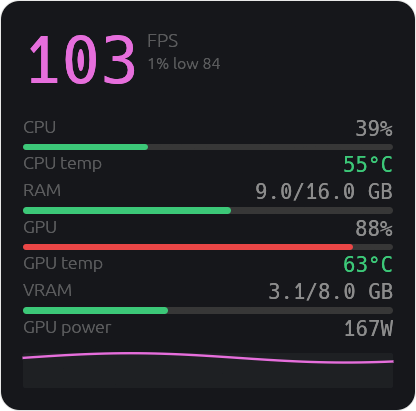
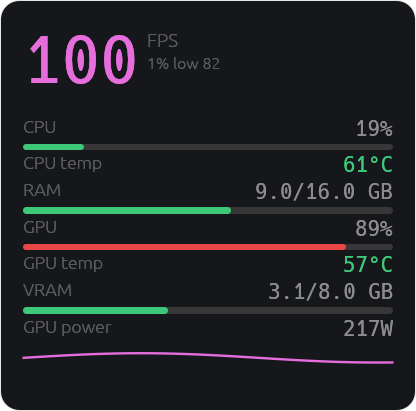
Tune the load and temperature thresholds
A normal ~60% load read amber; the bands are now green <70%, amber <85%,
red >=85% -- so a value that rounds to 90% already reads alarm and the number
never disagrees with its bar. Temperatures get their own bands (green <65C,
amber <80C, red above). Dropped the sparkline's stray background box.

diff --git a/src/gui/theme.rs b/src/gui/theme.rs
@@ -35,9 +35,12 @@ pub fn thermal(temp_c: f32) -> Rgb {
     lerp([80, 180, 255], [255, 90, 60], t)
 }
 
-/// The bar tone for a `0..=1` load: green, then amber, then red.
+/// The bar tone for a `0..=1` load: green, then amber past 70%, then red past
+/// 85%. The bands are deliberately wide, so a normal load stays calm and only a
+/// genuinely pegged one alarms — and a value that rounds to "90%" already reads
+/// alarm, so the number and the bar never disagree.
 pub fn load_color(fraction: f32) -> Rgb {
-    if fraction < 0.6 {
+    if fraction < 0.7 {
         [60, 200, 120]
     } else if fraction < 0.85 {
         [235, 175, 45]
@@ -46,10 +49,16 @@ pub fn load_color(fraction: f32) -> Rgb {
     }
 }
 
-/// A temperature tone: calm green when cool, amber when warm, red when hot, so
-/// a temperature reads at a glance like a load bar does.
+/// A temperature tone: green below 65 °C, amber to 80 °C, red above, so a
+/// temperature reads at a glance like a load bar does.
 pub fn temp_color(temp_c: f32) -> Rgb {
-    load_color(((temp_c - 40.0) / 50.0).clamp(0.0, 1.0))
+    if temp_c < 65.0 {
+        [60, 200, 120]
+    } else if temp_c < 80.0 {
+        [235, 175, 45]
+    } else {
+        [235, 70, 70]
+    }
 }
 
 /// The accent to draw with: thermal follows the temperature, the rest are
@@ -80,6 +89,10 @@ mod tests {
     fn is_bluish(c: Rgb) -> bool {
         c[2] > c[0]
     }
+    /// A true alarm tone (red), distinct from amber: red carries little green.
+    fn is_alarm(c: Rgb) -> bool {
+        c[0] > 200 && c[1] < 120
+    }
 
     #[test]
     fn load_color_goes_calm_amber_alarm() {
@@ -94,6 +107,19 @@ mod tests {
         );
         let high = load_color(0.95);
         assert!(is_reddish(high), "high load must read alarm: {high:?}");
+        // A value that rounds to "90%" must already read alarm, or the number
+        // and the bar disagree.
+        assert!(is_alarm(load_color(0.88)), "88% must read alarm");
+    }
+
+    #[test]
+    fn a_moderate_load_stays_calm() {
+        // Catches: amber firing too early, so a normal ~65% load looks alarming.
+        let moderate = load_color(0.65);
+        assert!(
+            is_greenish(moderate),
+            "65% must still read calm: {moderate:?}"
+        );
     }
 
     #[test]

diff --git a/src/gui/app.rs b/src/gui/app.rs
@@ -272,11 +272,6 @@ fn sparkline(ui: &mut egui::Ui, history: &[f32], accent: egui::Color32, scale: f
         })
         .collect();
     let painter = ui.painter();
-    painter.rect_filled(
-        rect,
-        egui::CornerRadius::same(2),
-        egui::Color32::from_rgba_unmultiplied(255, 255, 255, 10),
-    );
     painter.add(egui::Shape::line(
         points,
         egui::Stroke::new((1.5 * scale).max(1.0), accent),

diff --git a/gui.md b/gui.md
@@ -65,6 +65,7 @@ An OSD that looks like a piece of lab equipment, not a widget. Rules:
 16. [x] Full-density FPS sparkline (`gui::spark` + fps history in the snapshot).
 17. [x] Demo mode (`MINIHUD_DEMO=1`) + README screenshots of four variations.
 18. [x] Design pass from the screenshots: compact memory, hero rework, temp tints.
+19. [x] Threshold tune: load amber at 70%, red at 85%; temps green<65, amber<80.
 
 ## Progress log
 
@@ -170,3 +171,8 @@ An OSD that looks like a piece of lab equipment, not a widget. Rules:
   thermal tints on temperature values (`theme::temp_color`, `Metric.tint`) so a
   hot reading reads at a glance like a load bar. All TDD. Re-captured the four
   README screenshots. Gate green (186 tests, both feature sets).
+- 2026-10-11: Threshold tune (item 19). A normal ~60% load read amber; the bands
+  are now green <70%, amber <85%, red ≥85% (so a value rounding to "90%" already
+  reads alarm and the number never disagrees with the bar). Temps get their own
+  bands (green <65 °C, amber <80 °C, red above). Removed the sparkline's stray
+  background box. Re-captured the two Full screenshots. Gate green (187 tests).
